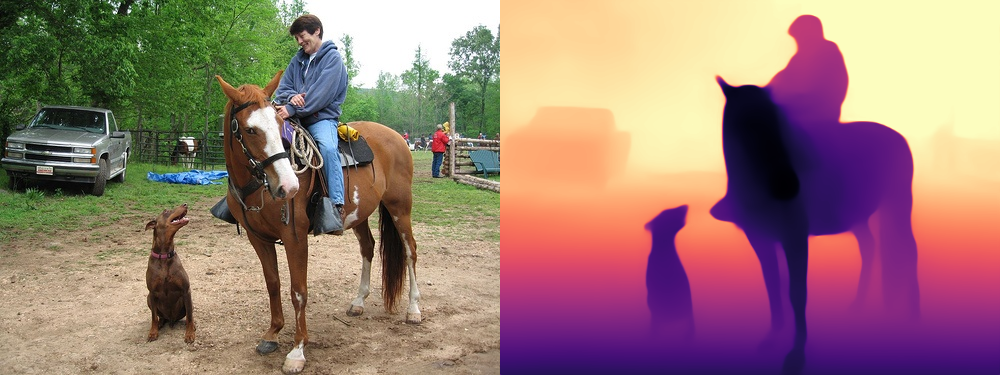
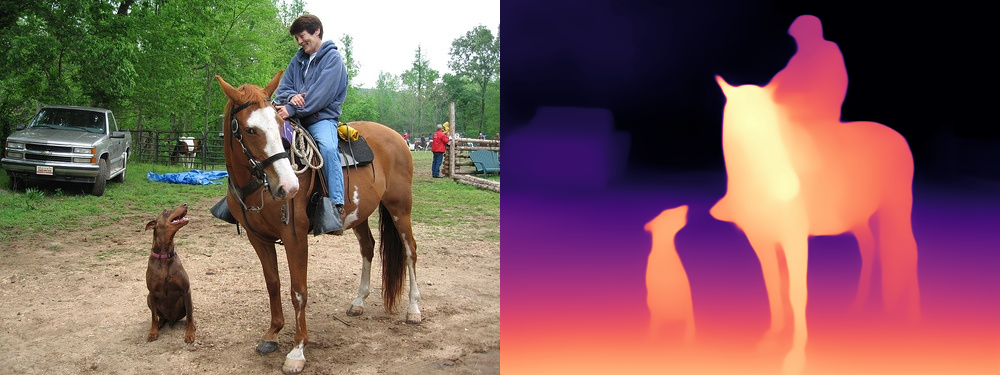
make depth style same (#126)

diff --git a/examples/ax650/ax_depth_anything_steps.cc b/examples/ax650/ax_depth_anything_steps.cc
@@ -55,7 +55,7 @@ namespace ax
 
         feature -= minVal;
         feature /= (maxVal - minVal);
-        feature = 1.f - feature;
+        // feature = 1.f - feature;
         feature *= 255;
 
         feature.convertTo(feature, CV_8UC1);
